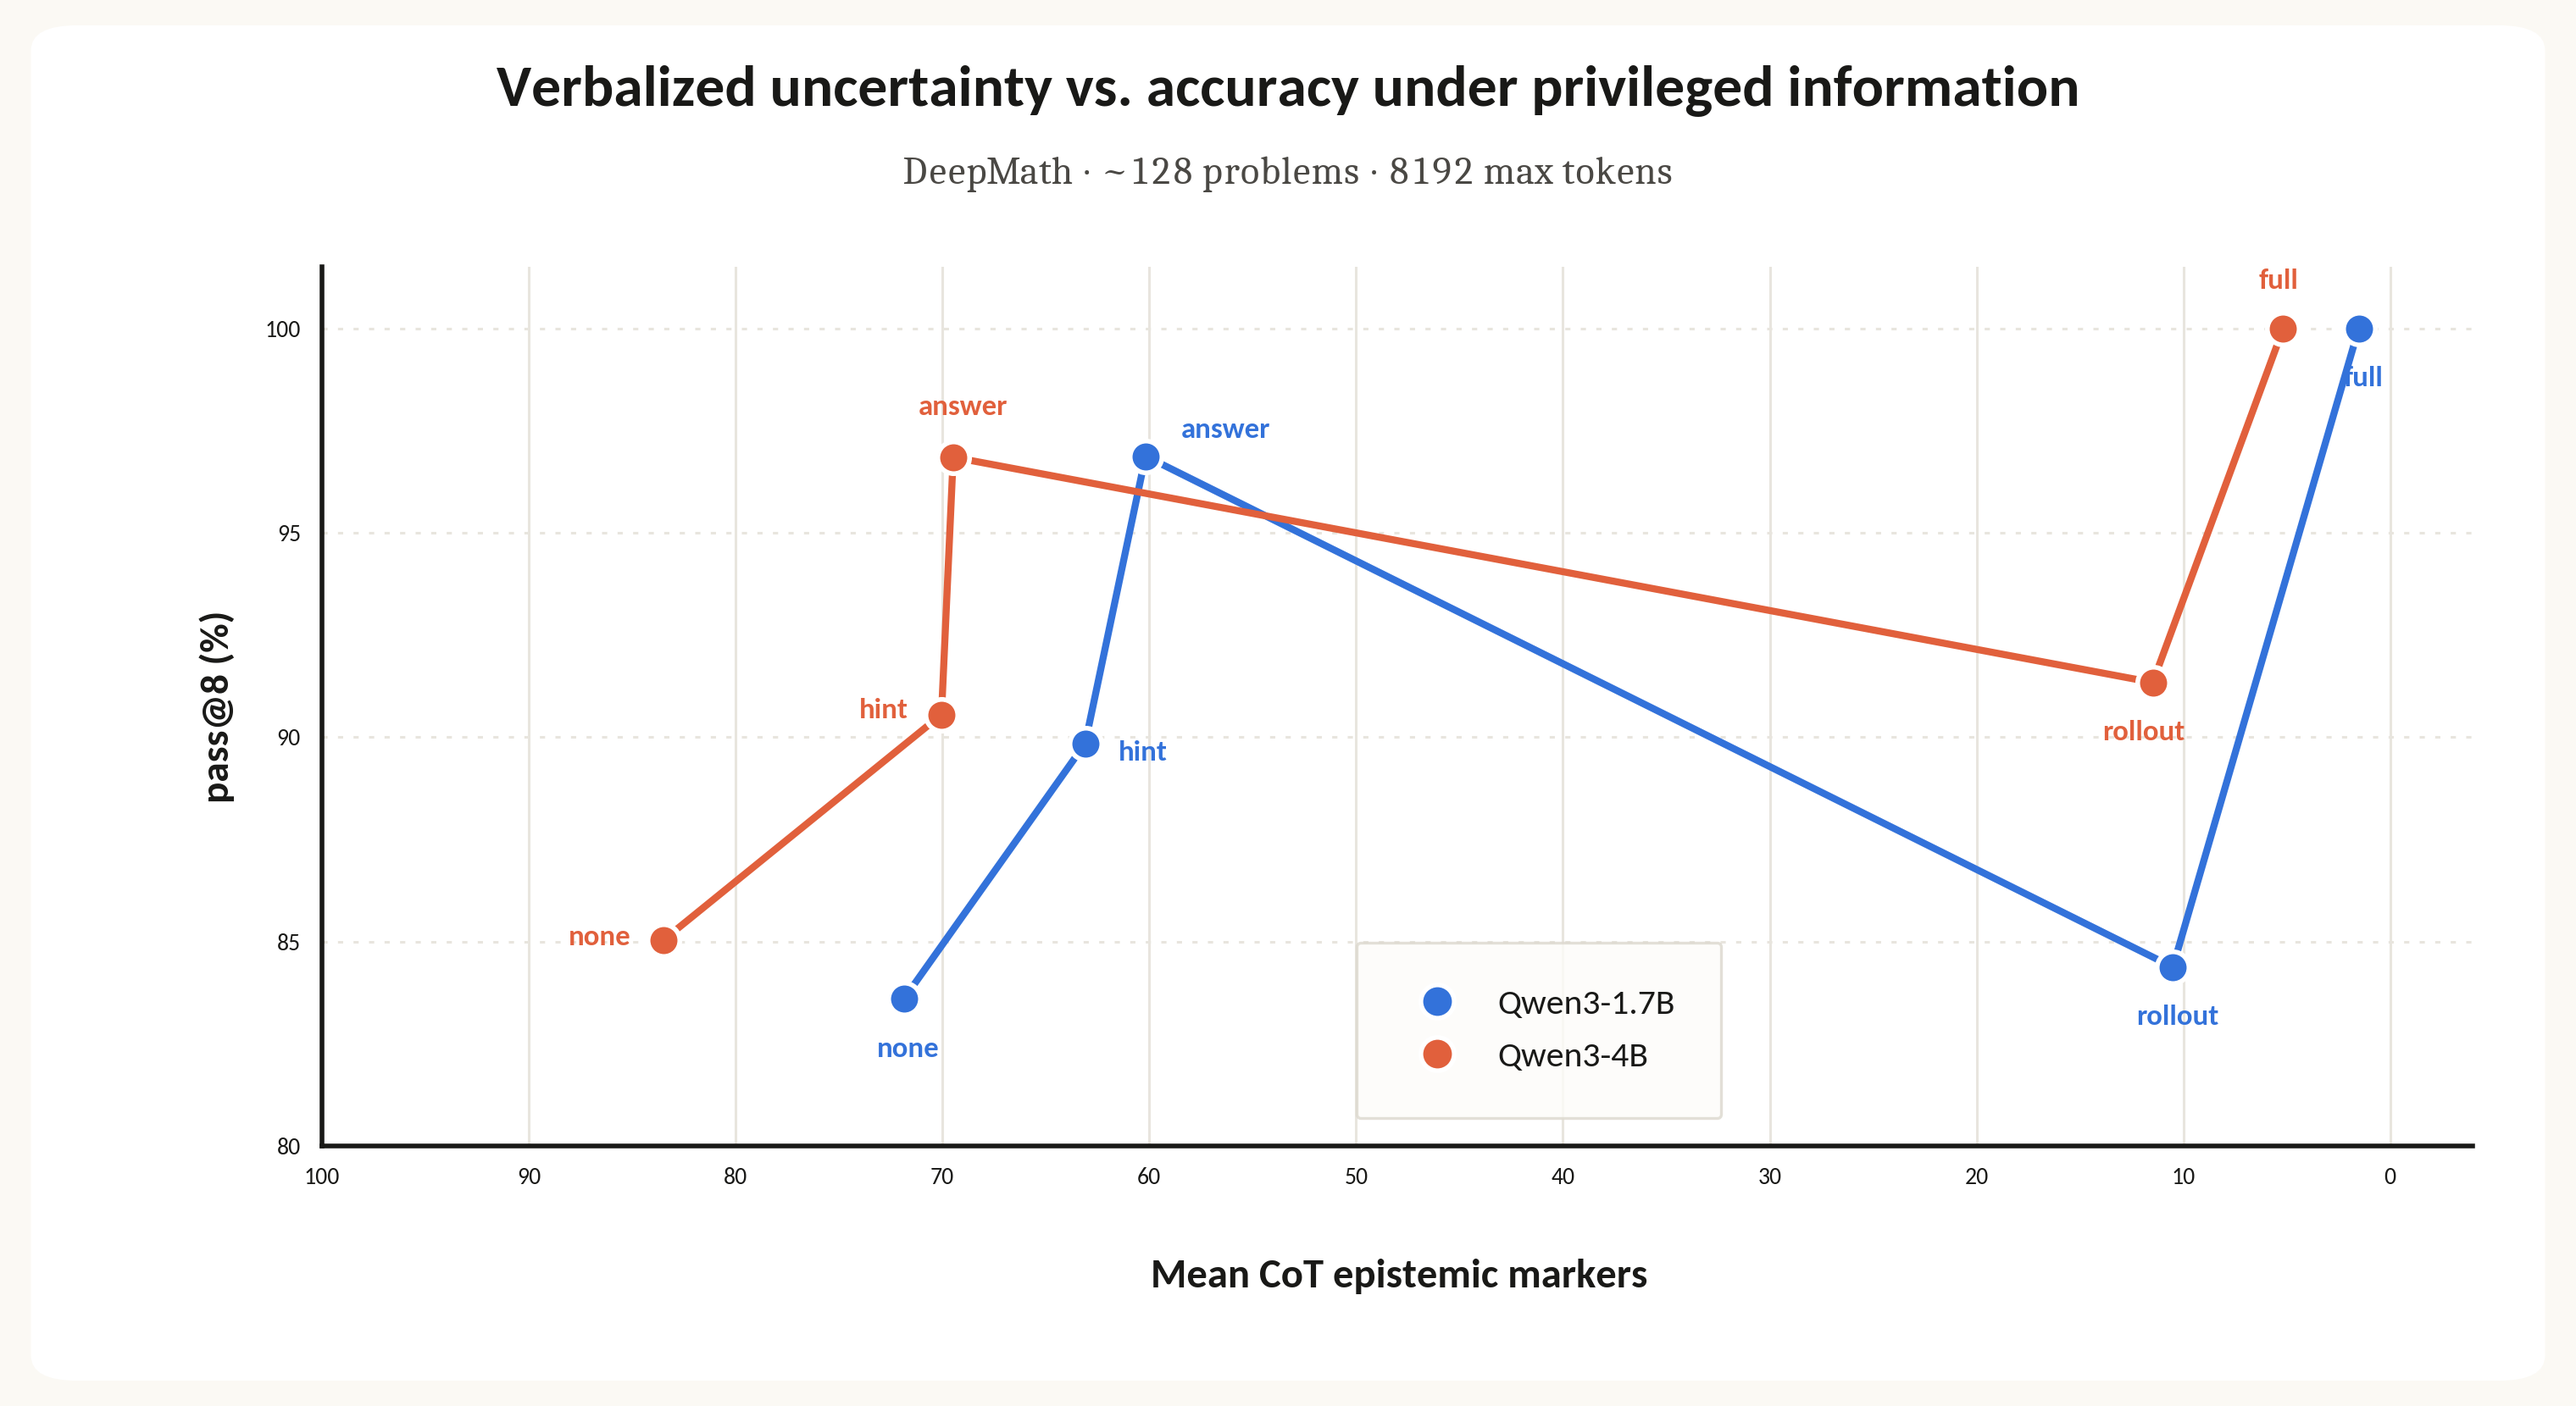
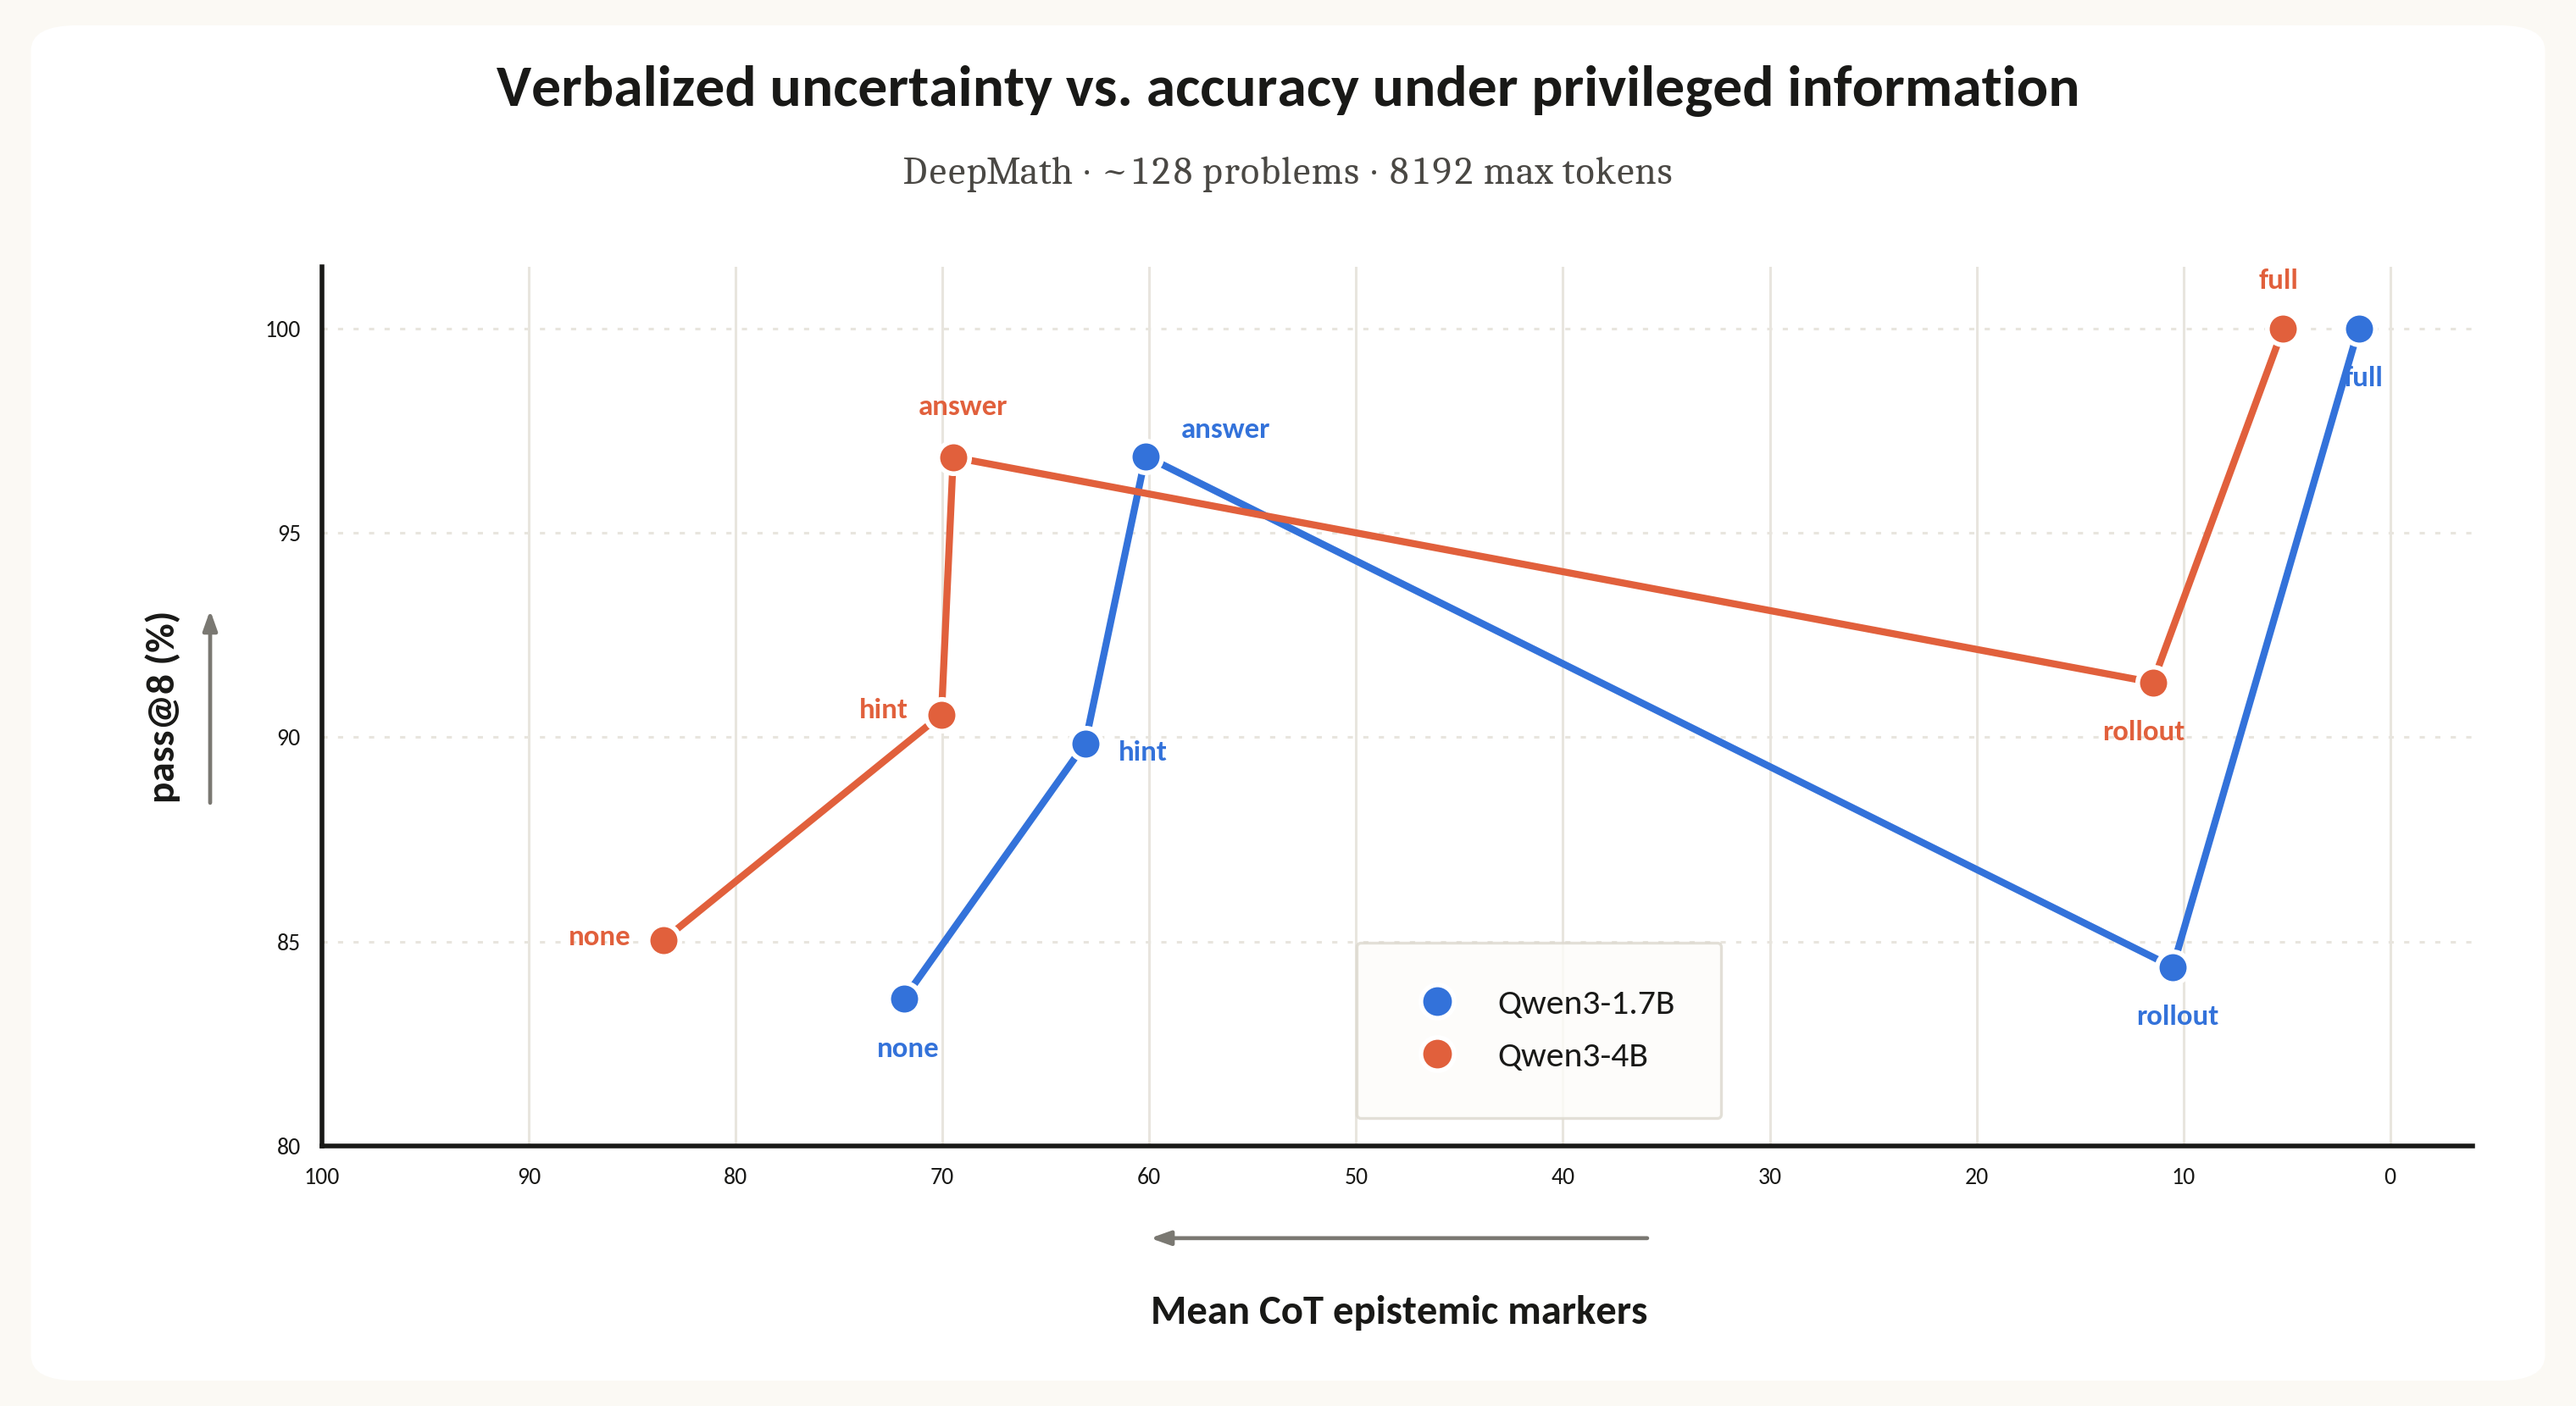
self distill blog

Changed region(s): [[0.4375, 0.8602, 0.6562, 0.9524], [0.0625, 0.4301, 0.0938, 0.5837]]

diff --git a/_posts/2026-07-01-self-distillation-post-1.md b/_posts/2026-07-01-self-distillation-post-1.md
@@ -80,7 +80,7 @@ Its hard to precisely define exploration of an LLM's chain-of-thought (COT) but 
   <figcaption style="width: 100%;" markdown="span"><strong>Figure 2.</strong> Verbalized uncertainty against pass@8 accuracy for Qwen3-1.7B and Qwen3-4B on 128 DeepMath problems[^dropped-problem] under different PIs -> none: no PI, hint: a self generated hint from a correct demonstration, answer: the correct final answer, rollout: a self generated rollout which may be correct or incorrect, full: a full demonstration. </figcaption>
 </figure>
 
-Both thinking models exhibit above 80% pass@8 accuracy with over 70 epistemic tokens on average in the think traces. 
+Both thinking models exhibit above 80% pass@8 accuracy with over 70 epistemic tokens on average in the think traces. As we make the PI progressively more informative about the problem, uncertainty verbalization decreases with overall increase in pass@8 accuracy. 
 
 
 
